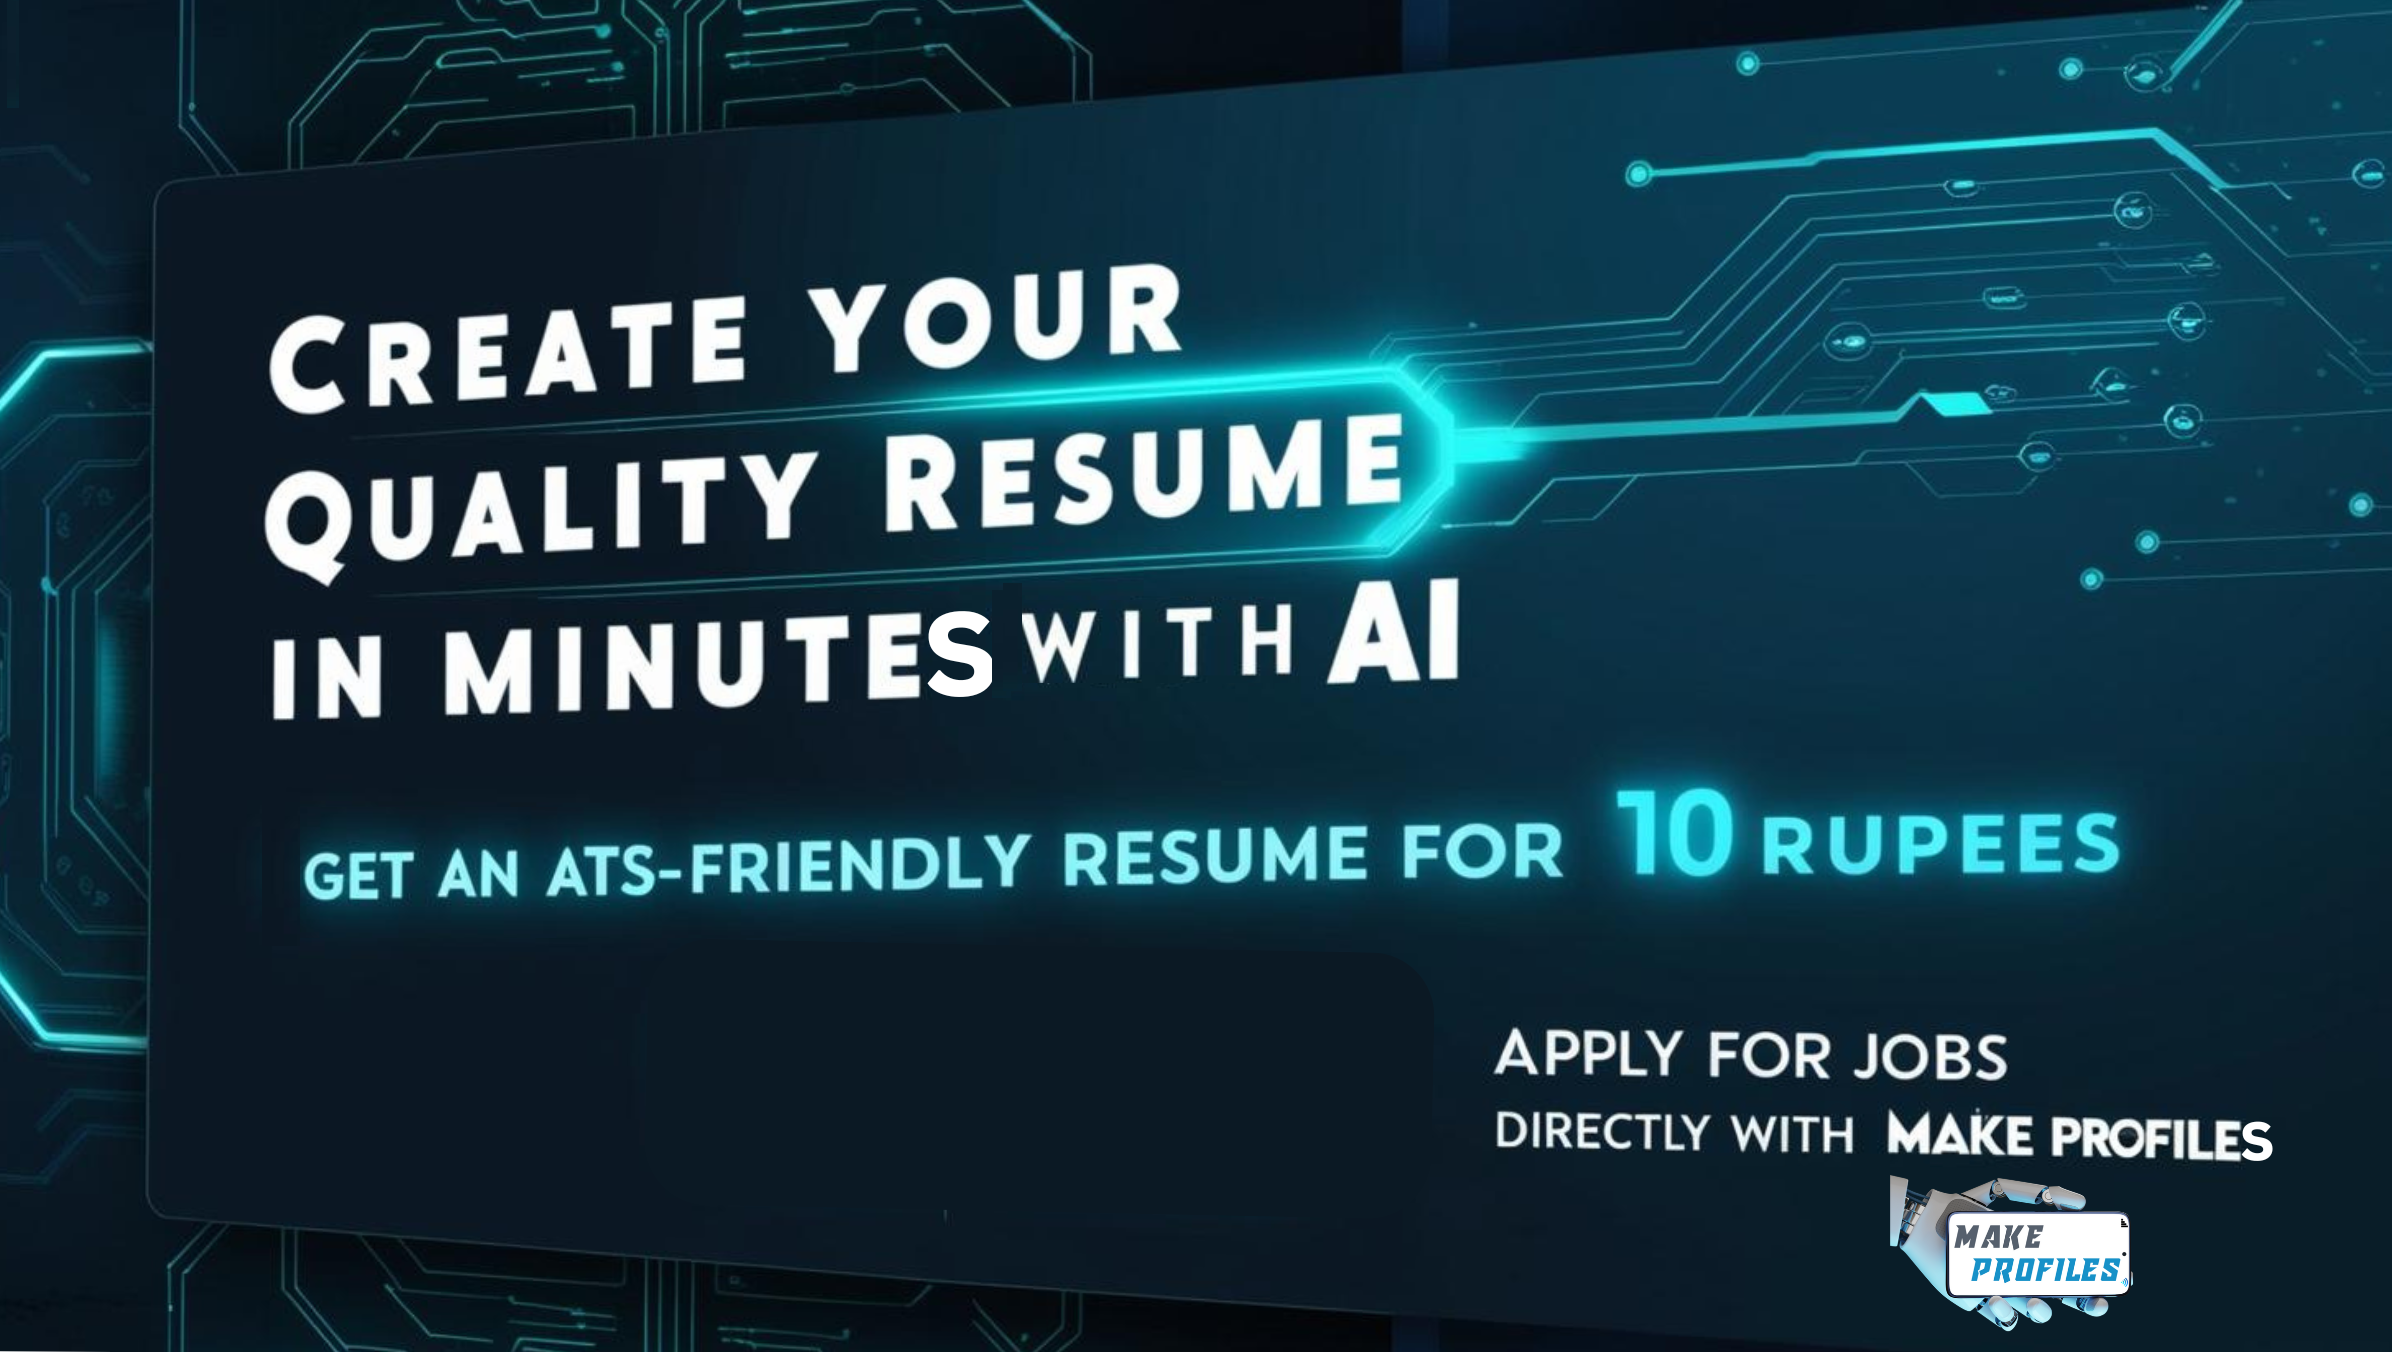
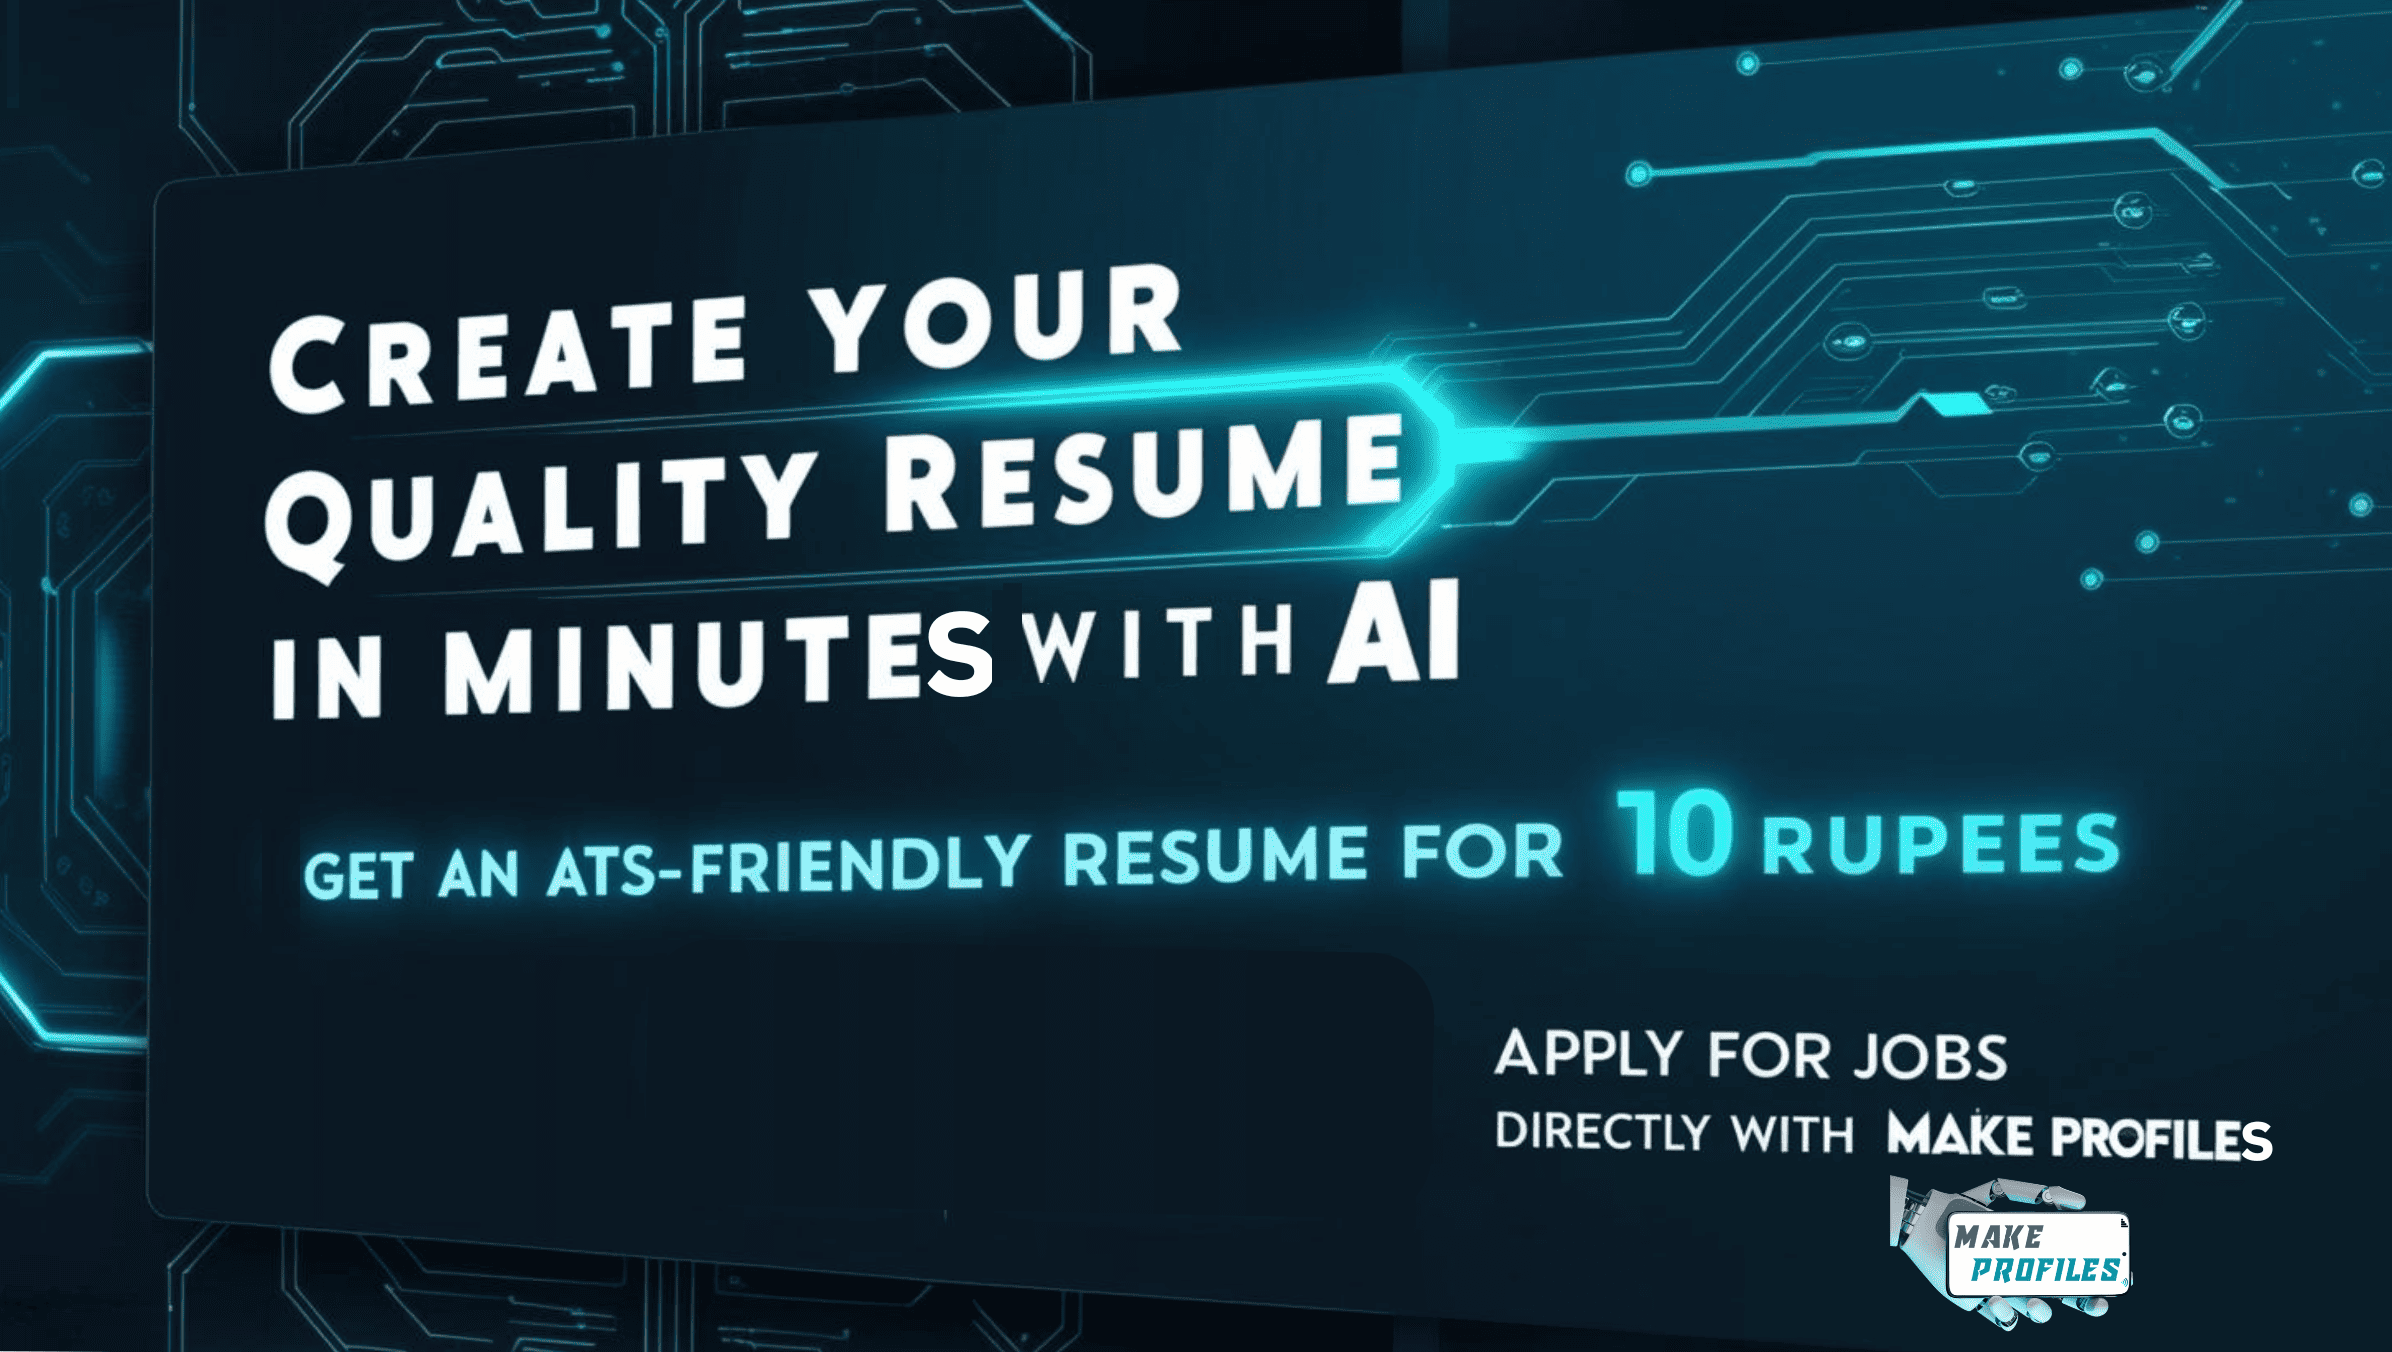
changes in landing images

diff --git a/src/index.html b/src/index.html
@@ -12,7 +12,7 @@
   <meta property="og:description" content="Create Resume Online in Minutes for just ₹10. Creating Free resumes are usually failed in job portals. Our AI resume is unique, valuable, and designed to pass job portals(ATS) ">
   <meta property="og:url" content="https://makeprofiles.com">
   <meta property="og:type" content="website">
-  <meta property="og:image" content="https://makeprofiles.com/assets/images/logo.png">
+  <meta property="og:image" content="https://makeprofiles.com/assets/images/freeresume.png">
   <!-- Google tag (gtag.js) -->
   <script async src="https://www.googletagmanager.com/gtag/js?id=G-1CFFRNZM5Z"></script>
   <script>
